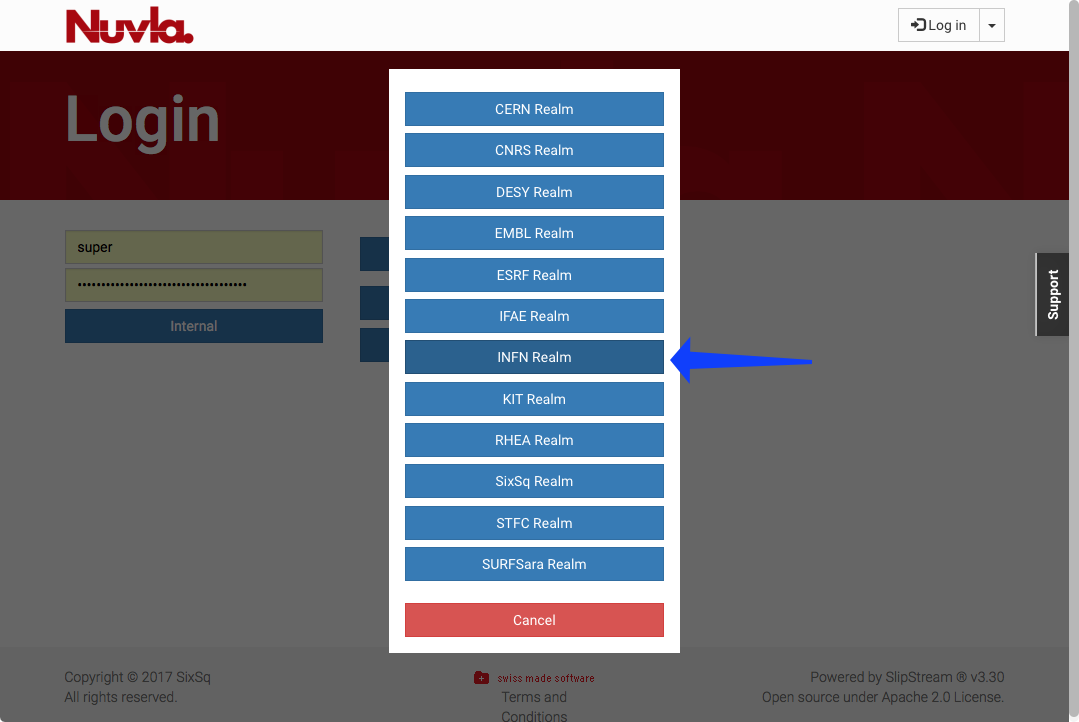
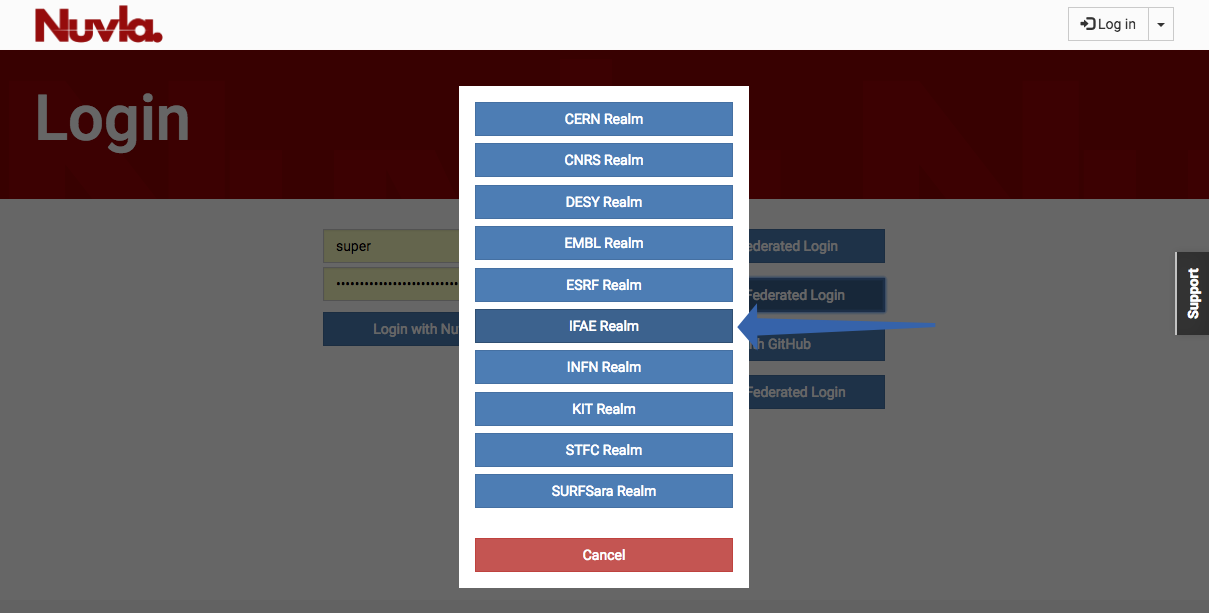
update documentation for login interface changes

Changed region(s): [[0.0, 0.0, 1.0, 1.0], [0.7034, 0.9299, 0.9481, 0.9918], [0.0612, 0.9299, 0.1835, 0.9918]]

diff --git a/docs/getting-started/activation.rst b/docs/getting-started/activation.rst
@@ -15,9 +15,9 @@ your institutional credentials is as follows:
    :alt: Nuvla sign in/up page
    :align: center
 
-2. On this page, HNSciCloud users shall select *"Sign In with OIDC"*
-   (which stands for OpenID Connect) and select their realm (or
-   tenant), as shown in the figure below.
+2. On this page, HNSciCloud users shall select *"HNSciCloud Federated
+   Login"* and select their realm (or tenant), as shown in the figure
+   below.
 
 .. image:: ../images/nuvlaLoginMethods.png
    :alt: Nuvla login methods page
